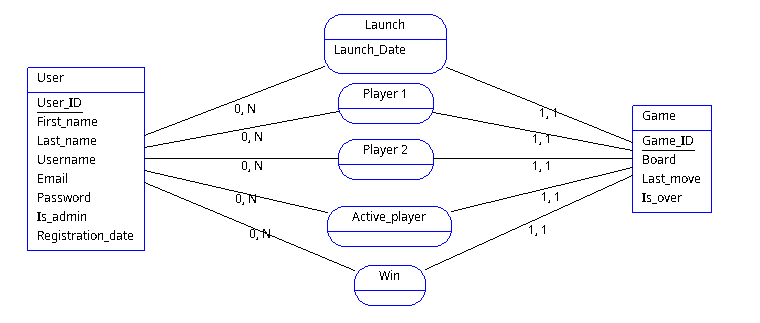
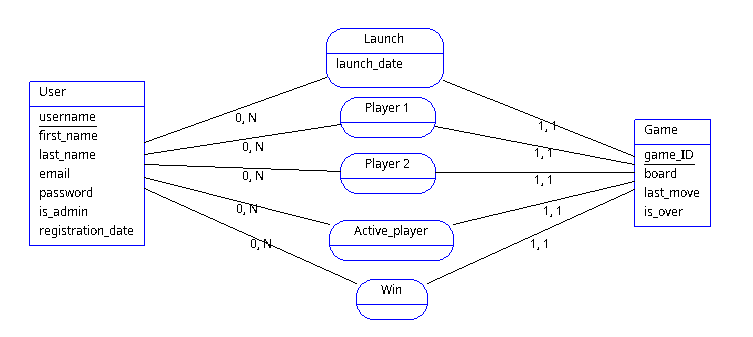
Modifications de beaucoup de choses

diff --git a/pages/enroll.php b/pages/enroll.php
@@ -1,0 +1,93 @@
+<?php
+// Création ou récupération de la session
+session_start();
+
+// On procède à l'inscription
+if (!isset($_SESSION['username']) && isset($_POST['submit']) && isset($_POST['username'])) {
+  // Connexion à la base de données SQLite
+  try {
+    $db = new PDO('sqlite:../datas/data_base.db');
+  } catch (PDOException $e) {
+    echo "Échec de la connexion", $e->getMessage();
+    $db = null;
+    exit();
+  }
+  // On remplit la session avec les informations de l'utilisateur
+  $_SESSION['first_name'] = $_POST['first_name'];
+  $_SESSION['last_name'] = $_POST['last_name'];
+  $_SESSION['username'] = $_POST['username'];
+  $_SESSION['email'] = $_POST['email'];
+  $_SESSION['is_admin'] = 0;
+  $_SESSION['registration_date'] = date('Y-m-d H:i:s');
+  // Hashage du mot de passe
+  $hashed_password = password_hash($_POST['password'], PASSWORD_DEFAULT);
+  // la requête SQL à executer
+  $query = "INSERT INTO User (First_name, Last_name, Username, Email, Password, Is_admin, Registration_date) 
+      VALUES (:first_name, :last_name, :username, :email, :password, 0, datetime('now'))";
+  // Préparation de la déclaration SQL
+  $stmt = $db->prepare($query);
+  $stmt->bindValue(':first_name', $_POST['first_name'], SQLITE3_TEXT);
+  $stmt->bindValue(':last_name', $_POST['last_name'], SQLITE3_TEXT);
+  $stmt->bindValue(':username', $_POST['username'], SQLITE3_TEXT);
+  $stmt->bindValue(':email', $_POST['email'], SQLITE3_TEXT);
+  $stmt->bindValue(':password', $hashed_password, SQLITE3_TEXT);
+  // Exécution de la requête
+  $stmt->execute();
+  // Fermeture de la connexion à la base de données
+  $db = null;
+}
+// Redirection vers la page d'accueil
+if (isset($_SESSION['username']) || (isset($_POST['submit']) && isset($_POST['username']))) {
+  header('Location: login.php');
+  exit();
+}
+?>
+
+<!DOCTYPE html>
+<html lang="fr">
+
+<head>
+  <meta charset="UTF-8" />
+  <meta name="viewport" content="width=device-width, initial-scale=1.0" />
+  <title>Enroll</title>
+  <link rel="stylesheet" href="../styles/enroll.css" />
+</head>
+
+<body>
+  <form action="" method="post">
+    <h2>Inscription</h2>
+    <div>
+      <label for="first_name">Prénom :</label>
+      <input type="text" name="first_name" required />
+    </div>
+    <div>
+      <label for="last_name">Nom :</label>
+      <input type="text" name="last_name" required />
+    </div>
+    <div>
+      <label for="username">Nom d'utilisateur :</label>
+      <input type="text" name="username" required />
+    </div>
+    <div>
+      <label for="email">Email :</label>
+      <input type="email" name="email" required />
+    </div>
+    <div>
+      <label for="password">Mot de passe :</label>
+      <input type="password" name="password" required />
+    </div>
+    <div>
+      <label for="confirm_password">Confirmez le mot de passe :</label>
+      <input type="password" name="confirm_password" required />
+    </div>
+    <input type="submit" name="submit" value="S'inscrire" />
+    <div>
+      <p>Déjà un compte ?</p>
+      <button onclick="window.location.href='login.php'">
+        Connectez-vous
+      </button>
+    </div>
+  </form>
+</body>
+
+</html>

diff --git a/pages/login.php b/pages/login.php
@@ -1,0 +1,69 @@
+<?php
+// Création ou récupération de la session
+session_start();
+// On procède à la récupération des données
+if (!isset($_SESSION['username']) && isset($_POST['submit']) && isset($_POST['username'])) {
+  // Connexion à la base de données SQLite
+  try {
+    $db = new PDO('sqlite:../datas/data_base.db');
+  } catch (PDOException $e) {
+    echo "Échec de la connexion", $e->getMessage();
+    $db = null;
+    exit();
+  }
+  // la requête SQL à executer
+  $query = "SELECT * FROM User WHERE Username = :username";
+  // Préparation de la déclaration SQL
+  $stmt = $db->prepare($query);
+  $stmt->bindValue(':username', $_POST['username'], SQLITE3_TEXT);
+  // Exécution de la requête
+  $stmt->execute();
+  // Récupération du résultat de la requête
+  $result = $stmt->fetch(PDO::FETCH_ASSOC);
+  // On remplit la session avec les informations de l'utilisateur
+  $_SESSION['first_name'] = $result['first_name'];
+  $_SESSION['last_name'] = $result['last_name'];
+  $_SESSION['username'] = $result['username'];
+  $_SESSION['email'] = $result['email'];
+  $_SESSION['is_admin'] = $result['is_admin'];
+  $_SESSION['registration_date'] = $result['registration_date'];
+  // Fermeture de la connexion à la base de données
+  $db = null;
+}
+// Redirection vers la page d'accueil
+if (isset($_SESSION['username']) || (isset($_POST['submit']) && isset($_POST['username']))) {
+}
+?>
+
+<!DOCTYPE html>
+<html lang="fr">
+
+<head>
+  <meta charset="UTF-8" />
+  <meta name="viewport" content="width=device-width, initial-scale=1.0" />
+  <title>Login</title>
+  <link rel="stylesheet" href="../styles/login.css" />
+</head>
+
+<body>
+  <form action="" method="post">
+    <h2>Connexion</h2>
+    <div>
+      <label for="username">Nom d'utilisateur :</label>
+      <input type="text" name="username" required />
+    </div>
+    <div>
+      <label for="password">Mot de passe :</label>
+      <input type="password" name="password" required />
+    </div>
+    <input type="submit" name="submit" value="Se connecter" />
+    <div>
+      <p>Vous n'avez pas de compte ?</p>
+      <button onclick="window.location.href='enroll.php'">
+        Créer un compte
+      </button>
+    </div>
+  </form>
+</body>
+
+</html>

diff --git a/index.php b/index.php
@@ -1,0 +1,3 @@
+<?php
+header('Location: pages/login.php');
+?>
